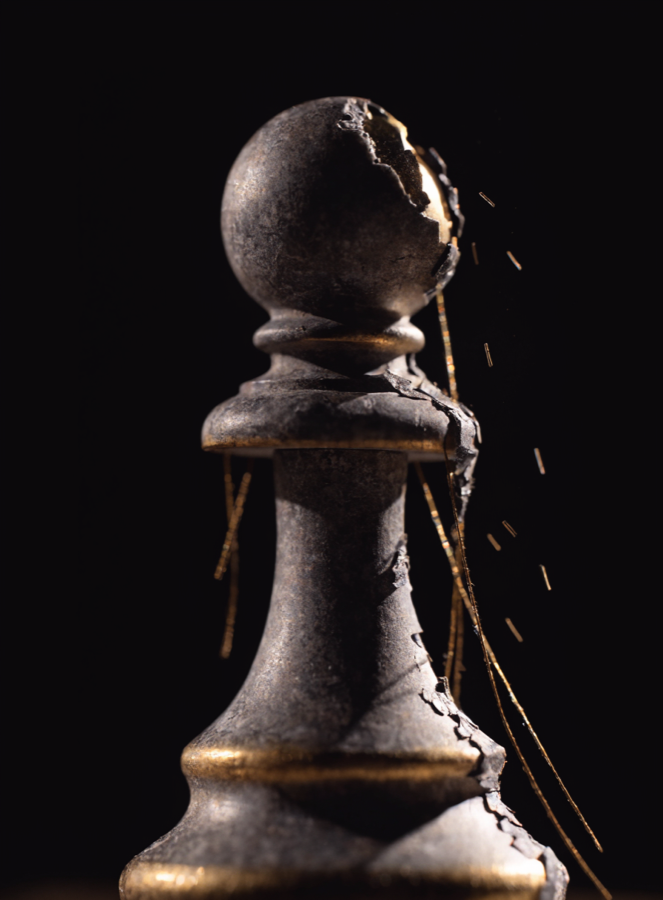
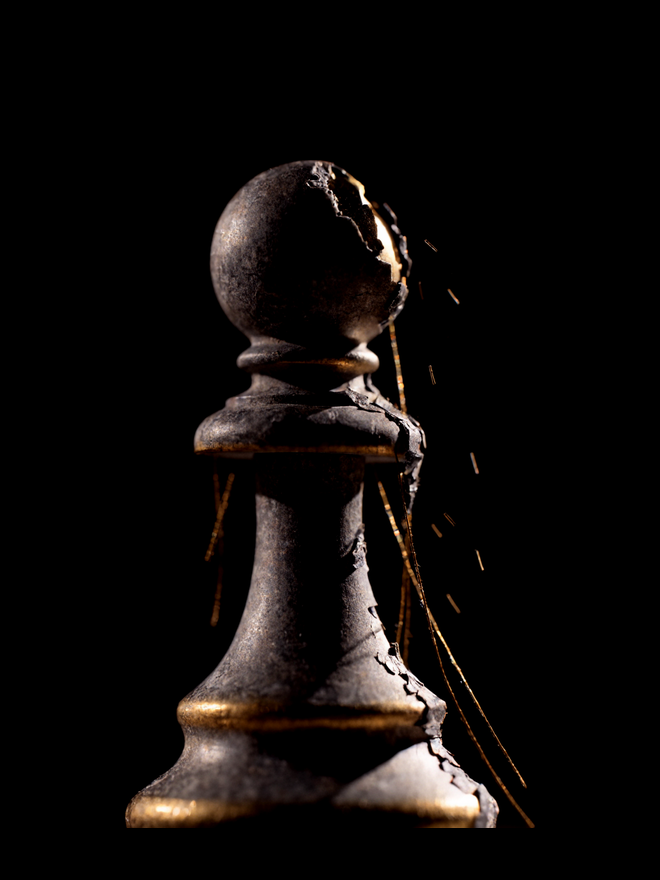
Make the four figures read as one set
Seen on the deployed page, two things were wrong with the renders that were
invisible in the source. Each figure showed a faint rectangle against its tile:
the render's background was near-black, not black, so mix-blend-mode: screen
left a lifted panel behind it. And the four were at four different scales, so
the rank read as four separate pictures rather than one progression.

Both fixed in the files rather than in CSS: blacks crushed to a true zero so
the screen blend leaves nothing behind, then each figure cropped to its own
content, scaled to a common height and bottom-aligned on a shared canvas. The
files also got about 2.5x smaller.

Serving width doubled to match the tile on a retina screen.

diff --git a/app/forge/page.tsx b/app/forge/page.tsx
@@ -196,9 +196,11 @@ function StepFigure({ i, className = "" }: { i: number; className?: string }) {
     <Image
       src={fig.src}
       alt={fig.alt}
-      width={663}
-      height={900}
-      sizes="(max-width: 640px) 80px, 220px"
+      width={660}
+      height={880}
+      // The tile is ~130px on desktop and ~70px on mobile; these are doubled so
+      // a retina screen gets a sharp figure rather than an upscaled one.
+      sizes="(max-width: 640px) 160px, 260px"
       className={`object-contain ${className}`}
       style={{ mixBlendMode: "screen" }}
     />
